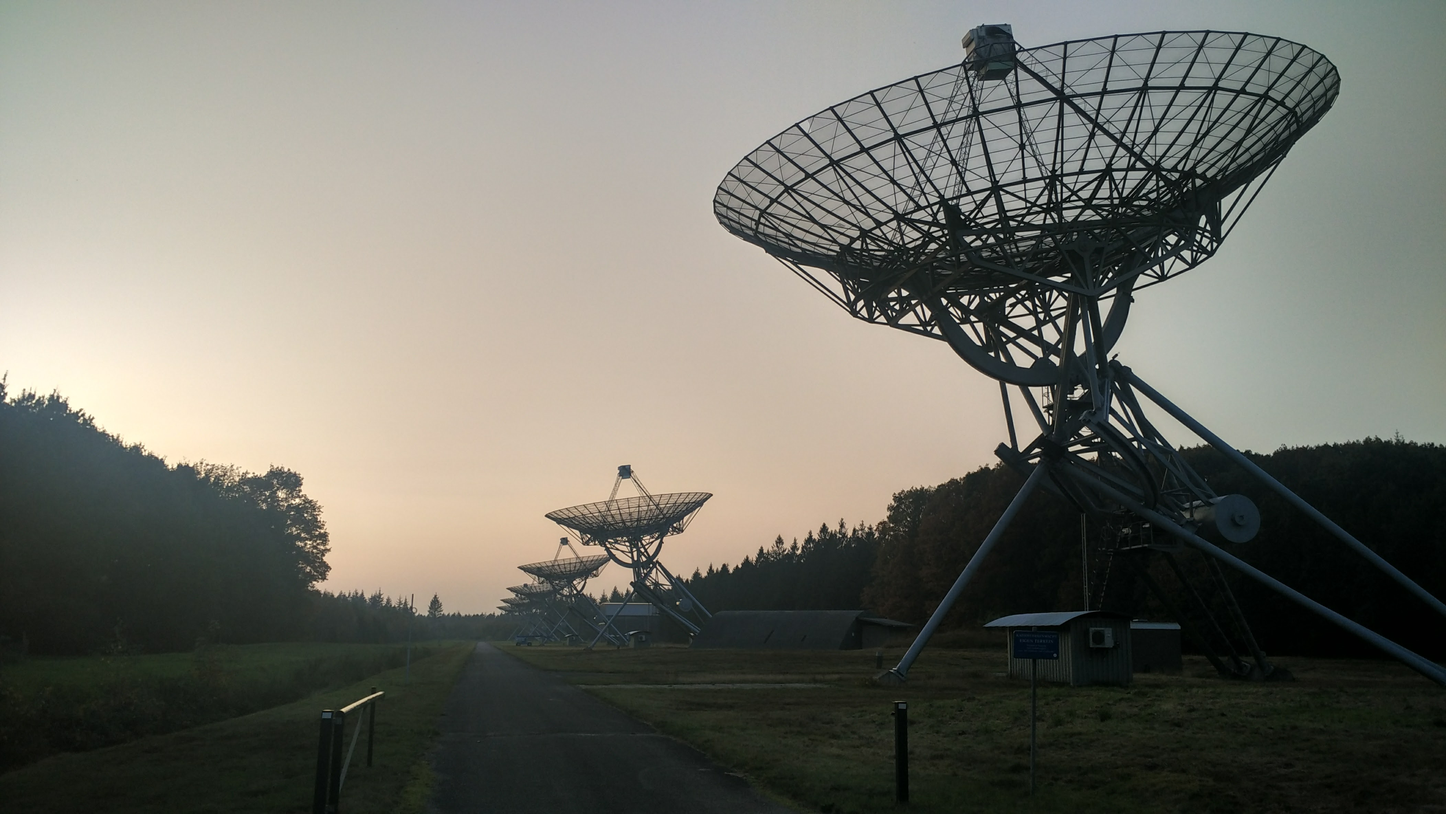
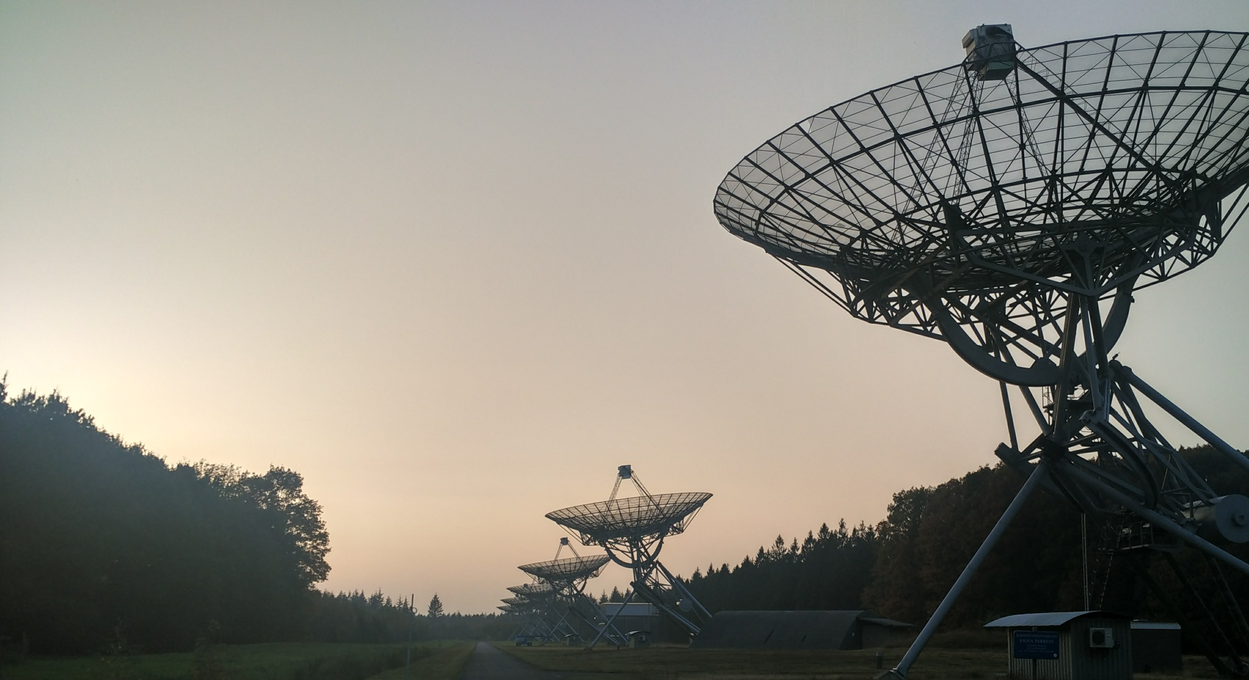
Update

diff --git a/assets/css/main.css b/assets/css/main.css
@@ -3572,7 +3572,7 @@ input, select, textarea {
 
 /* Banner */
 
-	#banner {
+	/* #banner {
 		display: -moz-flex;
 		display: -webkit-flex;
 		display: -ms-flex;
@@ -3595,6 +3595,35 @@ input, select, textarea {
 		background-position: center;
 		background-size: cover;
 		background-repeat: no-repeat;
+		width: 100vh;
+		min-width: 100em;
+		z-index: 0;
+	} */
+	#banner {
+		display: -moz-flex;
+		display: -webkit-flex;
+		display: -ms-flex;
+		display: flex;
+		-moz-flex-direction: column;
+		-webkit-flex-direction: column;
+		-ms-flex-direction: column;
+		flex-direction: column;
+		-moz-justify-content: center;
+		-webkit-justify-content: center;
+		-ms-justify-content: center;
+		justify-content: center;
+		cursor: default;
+		height: 100vh;
+		min-height: 32em;
+		overflow: hidden;
+		position: relative;
+		text-align: center;
+		background-image: url("../../images/wsrt.jpg");
+		background-position: center;
+		background-size: cover;
+		background-repeat: no-repeat;
+		width: 98.9vw;
+		min-width: 1em;
 		z-index: 0;
 	}
 
@@ -3645,10 +3674,12 @@ input, select, textarea {
 		#banner p {
 			letter-spacing: 0.225em;
 			text-transform: uppercase;
+			font-weight: 700;
 		}
 
 			#banner p a {
 				color: inherit;
+				font-weight: 500;
 			}
 
 		#banner .more {
@@ -3690,11 +3721,11 @@ input, select, textarea {
 				bottom: 4em;
 				content: '';
 				display: block;
-				height: 1.5em;
+				height: 2em;
 				left: 50%;
 				margin: 0 0 0 -0.75em;
 				position: absolute;
-				width: 1.5em;
+				width: 2em;
 			}
 
 		#banner:after {
